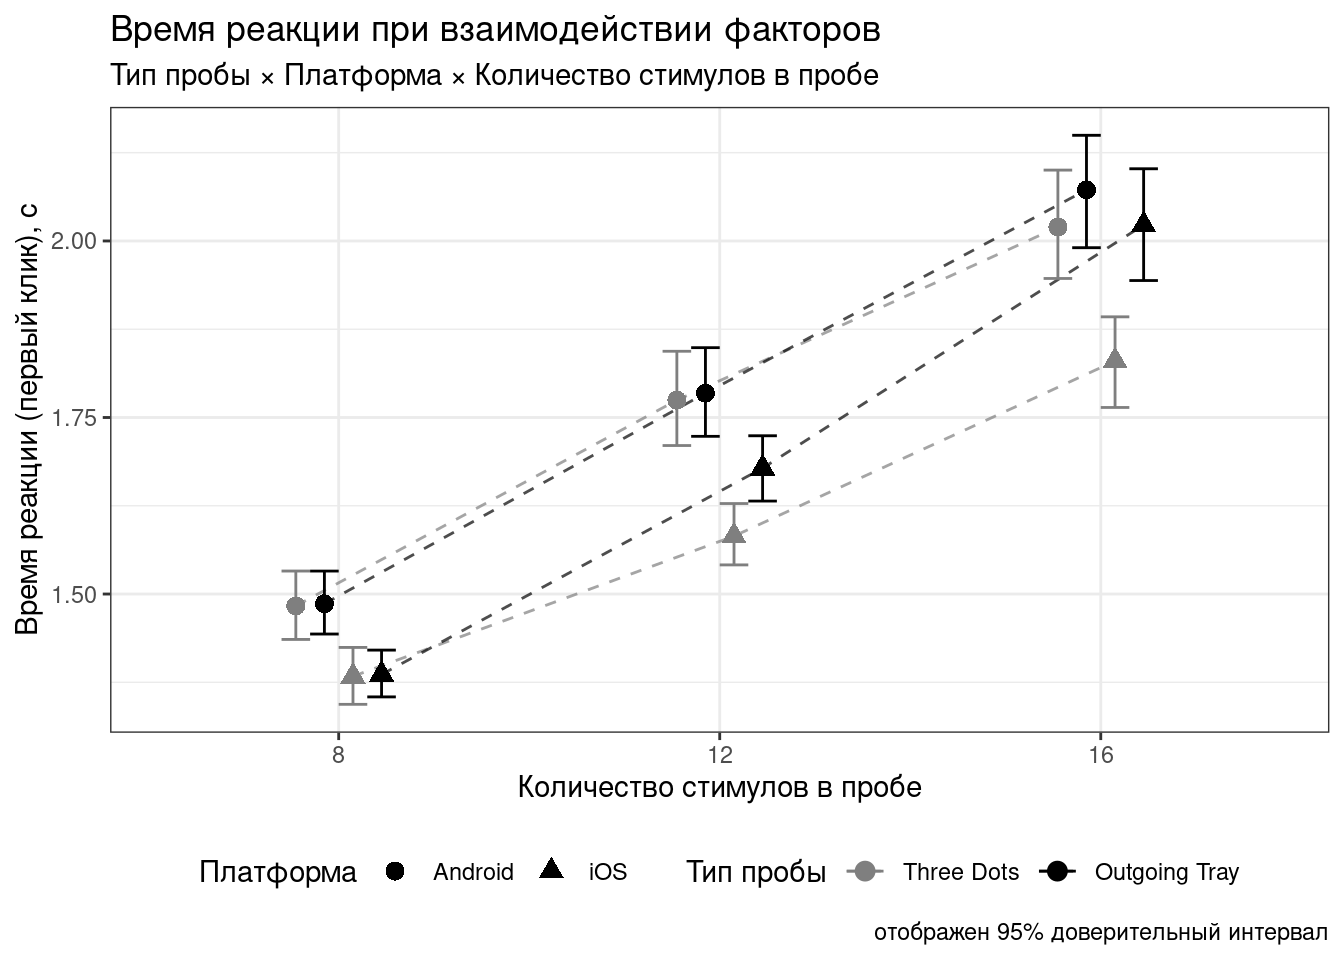
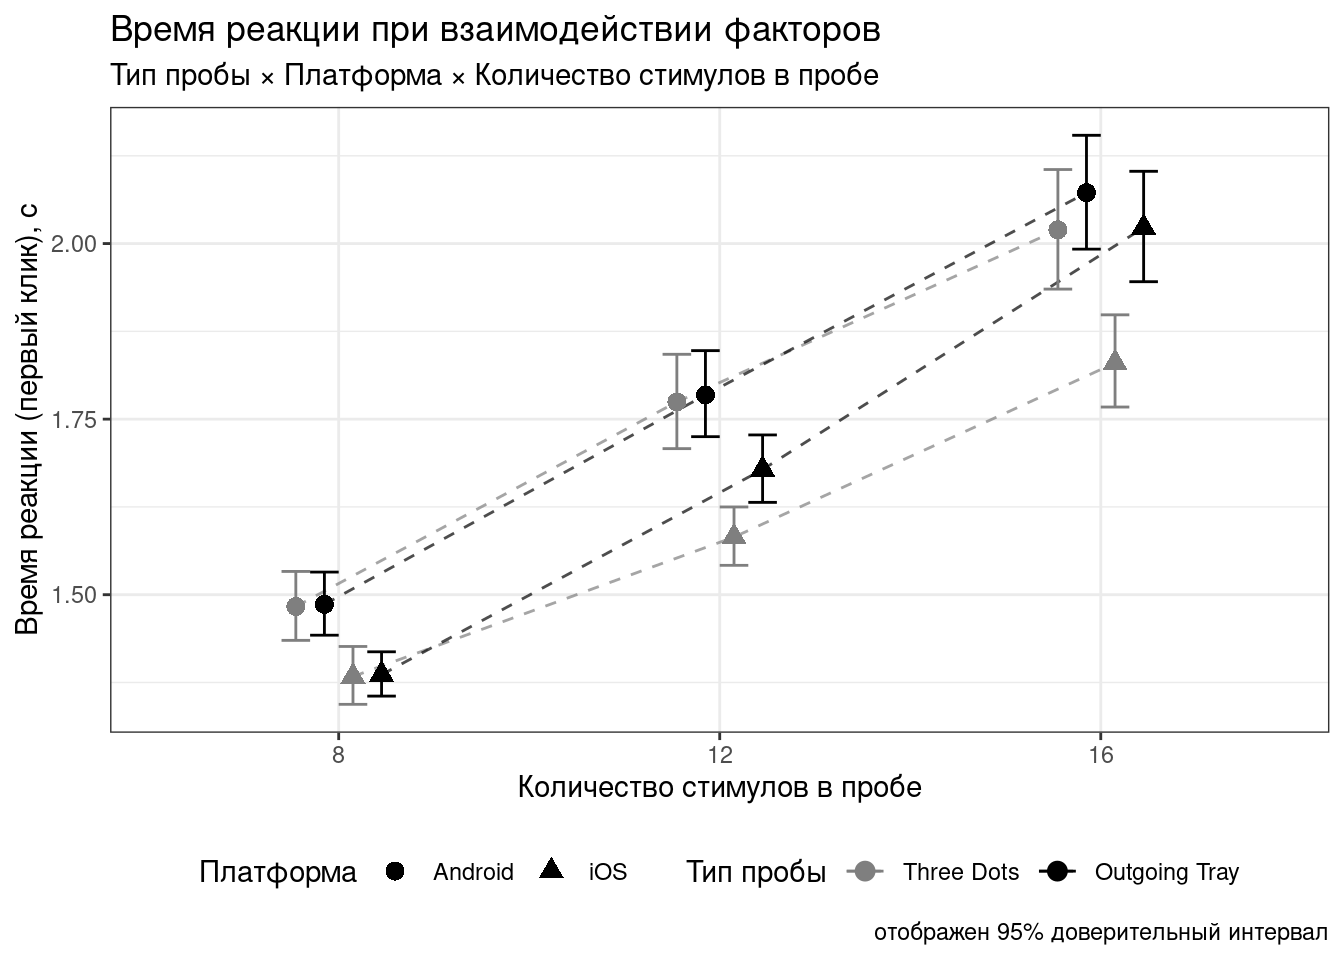
fix hw5-9

diff --git a/hw/_book/hw5.html b/hw/_book/hw5.html
@@ -690,15 +690,15 @@ REPLACE ALL hw5 TO hw<n> WITH MATCH CASE
 <h3 class="anchored" data-anchor-id="hw5-9-title">#9</h3>
 <p><img id="hw5-9-level" class="level"></p>
 <div id="hw5-9-task" class="task">
-<p>Текст задания.</p>
-</div>
-<div id="hw5-9-autocheck" class="autocheck">
-<div id="hw5-9-ir" class="input-requirements">
 <p>Последние штрихи:</p>
 <ol type="a">
 <li>Расположите легенду под визуалиацией.</li>
 <li>Задайте черно-белую тему графику, чтобы убрать серый фон.</li>
 </ol>
+</div>
+<div id="hw5-9-autocheck" class="autocheck">
+<div id="hw5-9-ir" class="input-requirements">
+
 </div>
 <p><input class="autocheck-input" type="text" id="hw5-9" placeholder="Введите ответ…"></p>
 <p><input class="autocheck-button" type="button" value="Проверить" onclick="check('hw5-9')"></p>
